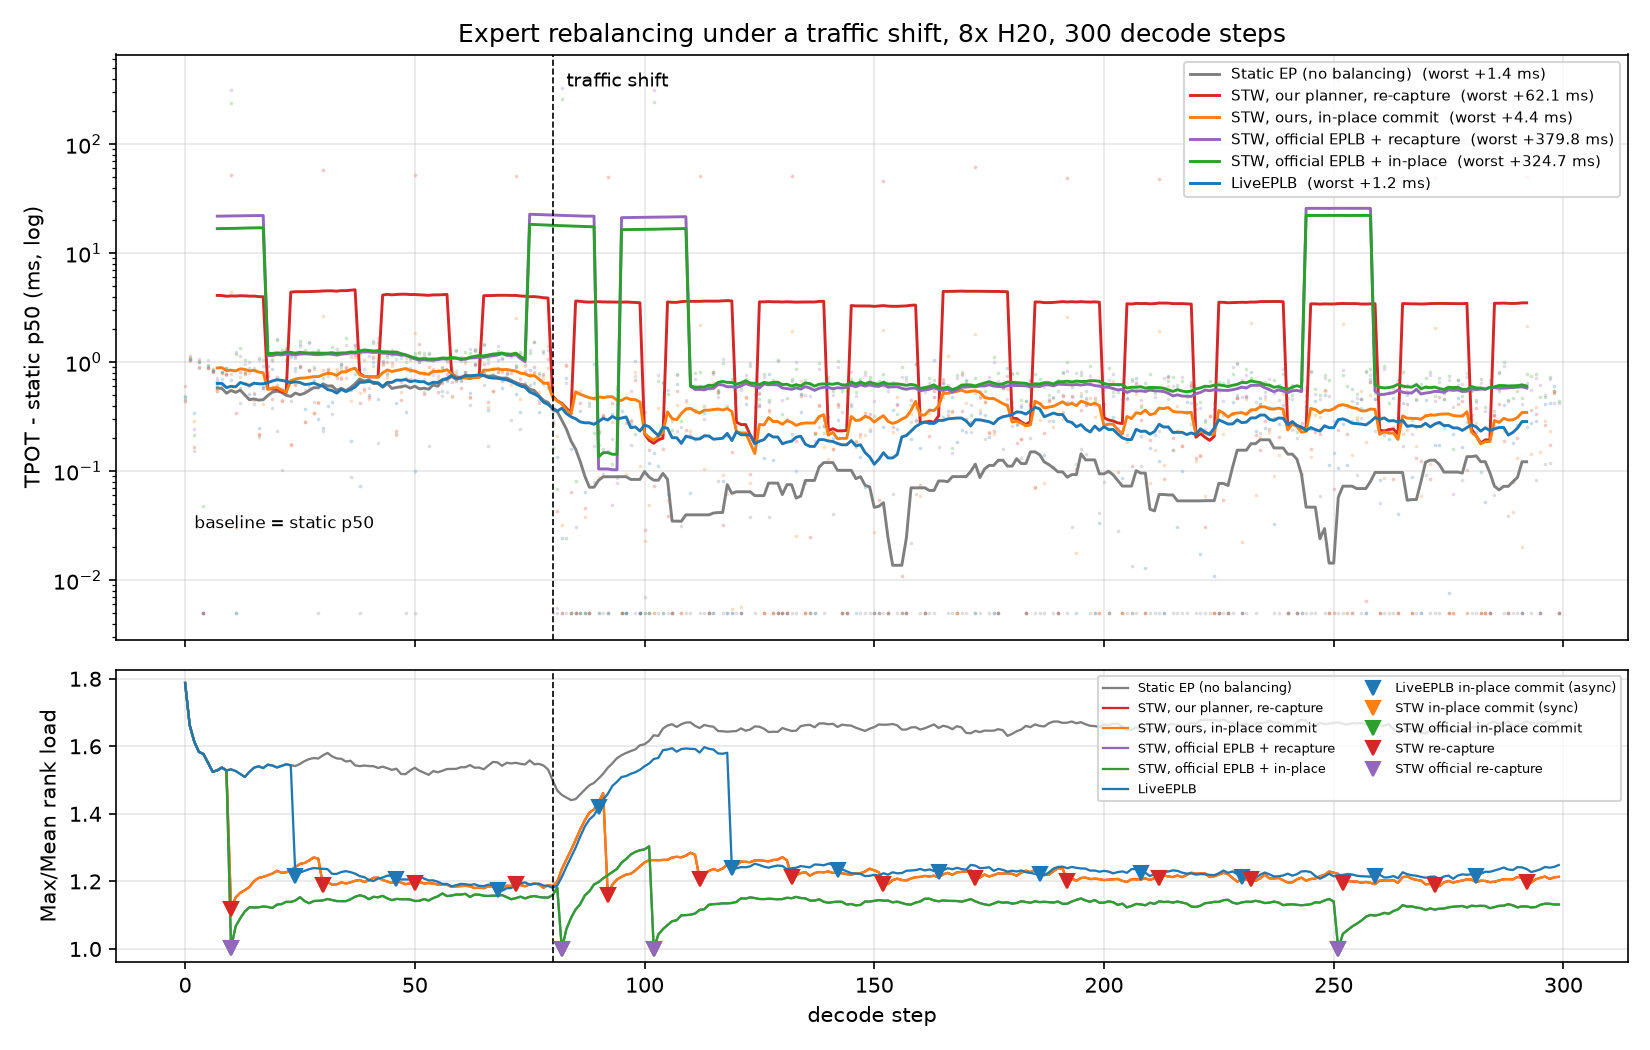
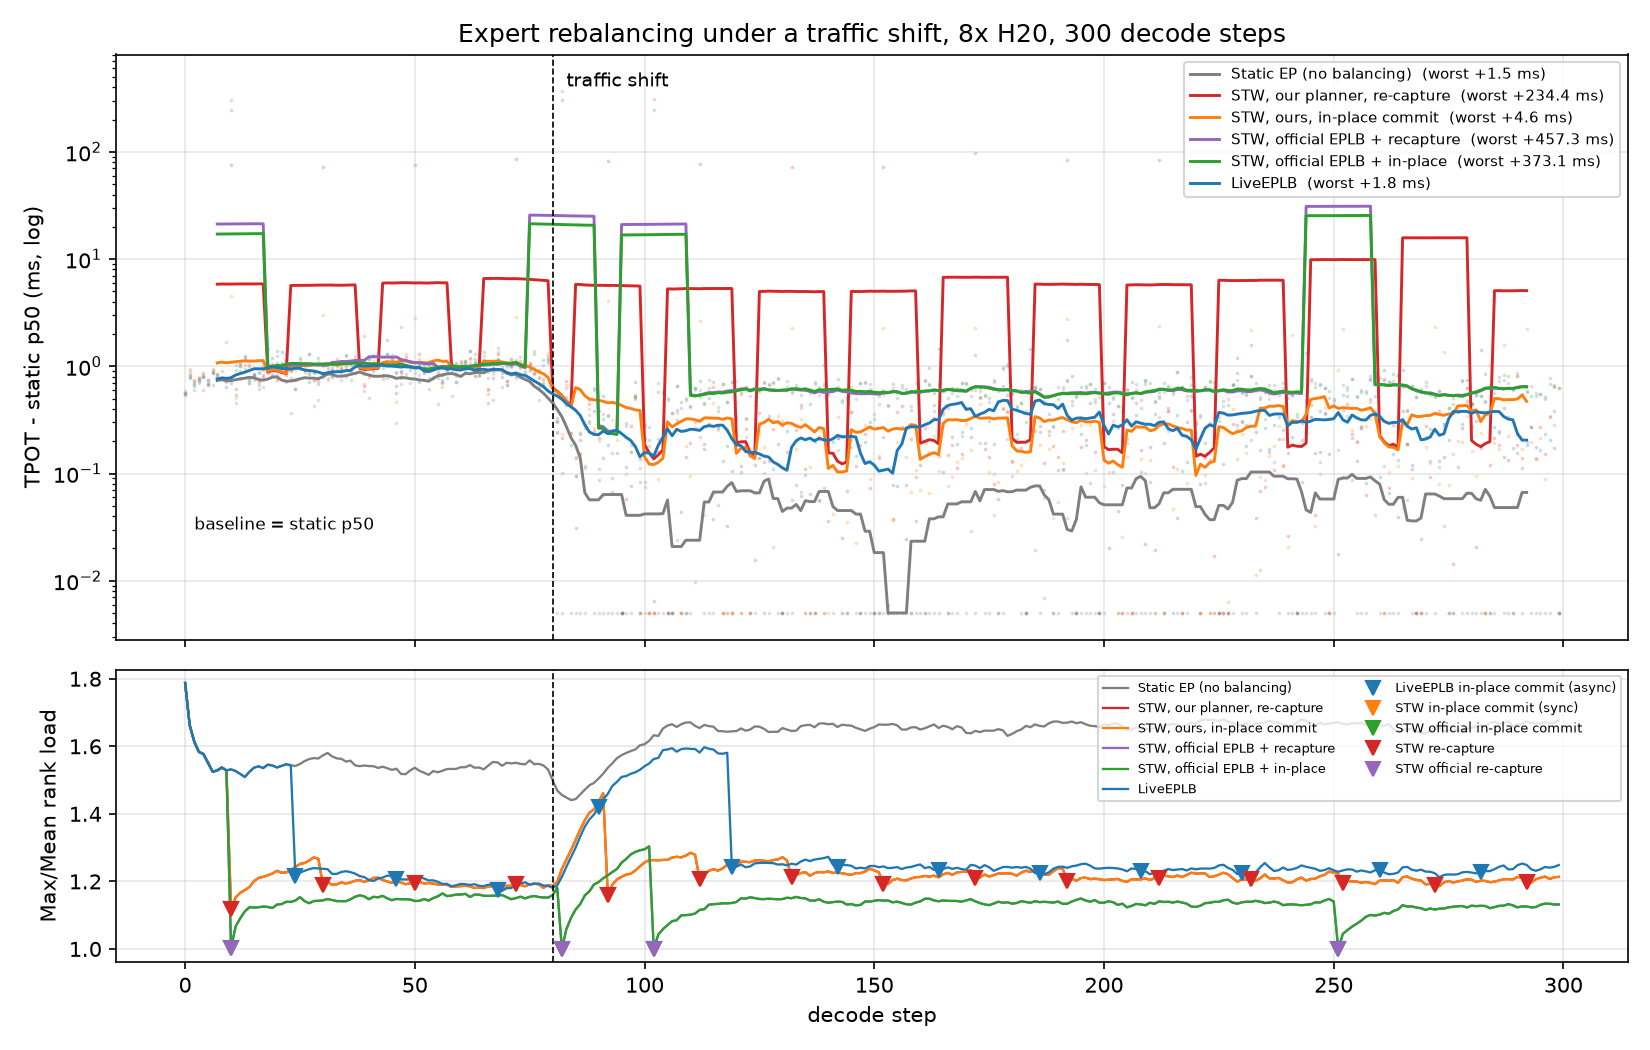
fix: make stats from rank 0 to the cluuster.

diff --git a/benchmarks/run_synthetic_8gpu.py b/benchmarks/run_synthetic_8gpu.py
@@ -205,6 +205,43 @@ def local_tokens(ids, logcnt, size):
     return out
 
 
+def cluster_reduce(tpot, ctrl_ms, imbalance, split, commits, plans, bad,
+                   steps, world, rank):
+    """Merge per-rank measurements into cluster-view ones, off the clock.
+    """
+    stream = torch.tensor([tpot, ctrl_ms, imbalance], dtype=torch.float64,
+                          device="cuda")
+    dist.all_reduce(stream, op=dist.ReduceOp.MAX)
+
+    ntasks = torch.zeros(steps, dtype=torch.int64, device="cuda")
+    times = torch.zeros(steps, 4, dtype=torch.float64, device="cuda")
+    for st, n, pl, dr, cp, rc in split:
+        ntasks[st] = n
+        times[st] = torch.tensor([pl, dr, cp, rc])
+    dist.all_reduce(ntasks, op=dist.ReduceOp.SUM)
+    dist.all_reduce(times, op=dist.ReduceOp.MAX)
+    merged = [(st, int(ntasks[st]), *times[st].tolist())
+              for st in ntasks.nonzero().flatten().tolist()]
+
+    counts = torch.tensor([commits, plans], dtype=torch.int64, device="cuda")
+    dist.all_reduce(counts, op=dist.ReduceOp.MAX)
+
+    width = torch.tensor([len(bad)], dtype=torch.int64, device="cuda")
+    dist.all_reduce(width, op=dist.ReduceOp.MAX)
+    bad_all = []
+    if width.item():
+        rows = torch.full((int(width.item()), 6), -1, dtype=torch.int64,
+                          device="cuda")
+        for i, (l, e, s, (tl, te)) in enumerate(bad):
+            rows[i] = torch.tensor([rank, l, e, s, tl, te])
+        gathered = [torch.empty_like(rows) for _ in range(world)]
+        dist.all_gather(gathered, rows)
+        bad_all = [tuple(r) for g in gathered for r in g.tolist() if r[1] >= 0]
+
+    return (stream[0].tolist(), stream[1].tolist(), stream[2].tolist(),
+            merged, int(counts[0]), int(counts[1]), bad_all)
+
+
 def run(policy, args, rank, world, stack, sw):
     """Drive `stack` for args.steps decode steps under `policy`.
 
@@ -412,10 +449,14 @@ def run(policy, args, rank, world, stack, sw):
         load = rank_load(layout, ema * world, RANKS)
         imbalance.append((load.max(-1).values / load.mean(-1).clamp(min=1e-9)).mean().item())
 
+    bad = verify_replicas(stack, L)
+    tpot, ctrl_ms, imbalance, split, commits, plans, bad = cluster_reduce(
+        tpot, ctrl_ms, imbalance, split,
+        ctrl.commits if ctrl else stw_commits,
+        0 if ctrl is None else ctrl.plans, bad, args.steps, world, rank)
     return dict(policy=policy, tpot=tpot, actions=actions, imbalance=imbalance,
-                ctrl_ms=ctrl_ms, commits=ctrl.commits if ctrl else stw_commits,
-                plans=0 if ctrl is None else ctrl.plans, split=split,
-                bad=verify_replicas(stack, L))
+                ctrl_ms=ctrl_ms, commits=commits, plans=plans, split=split,
+                bad=bad)
 
 
 def stats(v):
@@ -467,11 +508,15 @@ def main():
         torch.cuda.empty_cache()
         dist.barrier()
 
+    peak = torch.tensor([torch.cuda.max_memory_allocated()],
+                        dtype=torch.float64, device="cuda")
+    dist.all_reduce(peak, op=dist.ReduceOp.MAX)
+
     if rank == 0:
         print(f"{args.layers} layers, {args.tokens} tokens/step, {args.steps} steps, "
               f"shift at {args.shift_at}, Zipf(alpha={args.alpha}) rotating "
-              f"{args.drift} experts, peak "
-              f"{torch.cuda.max_memory_allocated() / 2**30:.1f} GiB\n")
+              f"{args.drift} experts, peak (max over ranks) "
+              f"{peak.item() / 2**30:.1f} GiB\n")
         hdr = (f"{'policy':<10}{'TPOT p50':>10}{'p99':>9}{'worst':>9}"
                f"{'Max/Mean last100':>18}{'commits':>9}")
         print(hdr)
@@ -487,14 +532,18 @@ def main():
 
         for p in policies:
             if out[p]["bad"]:
-                print(f"\n!! {p}: {len(out[p]['bad'])} replica slots hold the "
-                      f"wrong weights, first {out[p]['bad'][:3]}")
+                print(f"\n!! {p}: {len(out[p]['bad'])} replica slots across "
+                      f"all ranks hold the wrong weights "
+                      f"(rank, layer, expert, slot, got_l, got_e), first "
+                      f"{out[p]['bad'][:3]}")
             if out[p]["split"]:
                 base = torch.tensor(out["static"]["tpot"]).median().item() \
                     if "static" in out else 0.0
                 print(f"\n{p} stalls (ms). drain = waiting out the replay this "
                       f"step launched, which every step pays; plan runs on the "
-                      f"CPU beside it and is free whenever drain > 0.")
+                      f"CPU beside it and is free whenever drain > 0. slots "
+                      f"is the cluster-wide total, each time column is the "
+                      f"slowest rank's.")
                 print(f"  {'step':>5}{'slots':>7}{'plan':>8}{'drain':>8}"
                       f"{'copy':>8}{'recap':>8}{'TPOT':>8}{'vs p50':>8}")
                 for st, n, pl, dr, cp, rc in out[p]["split"]:

diff --git a/docs/stage5_experiments.md b/docs/stage5_experiments.md
@@ -30,11 +30,11 @@ phaseB_math_wiki:    608,408 次路由指派 / 1666 prompts，zero-count 专家 
 
 ## 真实路由长什么样
 
-| | Phase A (code) | Phase B (math) | 合成 Zipf(α=1.1) |
-|---|---|---|---|
-| 层平均 Max/Mean（静态布局） | **1.527** | **1.642** | 2.204 |
-| 单层最小 / 最大 | 1.085 / 2.211 | 1.217 / **2.632** | ≈ 每层相同 |
-| 两域 top-8 热点交集 | 每层平均 1.38 / 8 | 同上（交集本来就跨域） | 人为轮转 64 个专家 |
+|                             | Phase A (code)    | Phase B (math)          | 合成 Zipf(α=1.1)  |
+| --------------------------- | ----------------- | ----------------------- | ------------------ |
+| 层平均 Max/Mean（静态布局） | **1.527**   | **1.642**         | 2.204              |
+| 单层最小 / 最大             | 1.085 / 2.211     | 1.217 / **2.632** | ≈ 每层相同        |
+| 两域 top-8 热点交集         | 每层平均 1.38 / 8 | 同上（交集本来就跨域）  | 人为轮转 64 个专家 |
 
 1. **比合成温和**：层平均 1.5-1.6，不是 2.2。
 2. **逐层异质是真实的**：同一层在这两个域热度差异极大（交互项强），单看一个域也有
@@ -77,54 +77,59 @@ python benchmarks/plot_stage4.py 80 results/stage5_trace_timeline.json results/s
 
 ### 40 层
 
+（**2026-11-28 重跑，集群口径**——per-step 取 8 个 rank 的 MAX，此前为 rank0 口径，见
+`stage5_debug_notes` S5-9。停机类数字普遍上修，结论方向不变。）
+
 ```
 policy               TPOT p50      p99    worst  Max/Mean last100  commits
 ---------------------------------------------------------------------------------
-static                 66.290   67.576   67.744             1.663        0
-stw                    66.641  118.206  128.436             1.207       15
-stw_inplace            66.618   68.887   70.747             1.207       15
-stw_official           66.933  383.003  446.086             1.125        4
-stw_official_inplace   66.978  307.136  391.041             1.125        4
-live                   66.599   67.349   67.466             1.223       12
+static                 66.507   67.747   67.993             1.663        0
+stw                    66.780  159.196  300.953             1.207       15
+stw_inplace            66.748   69.396   71.069             1.207       15
+stw_official           67.144  372.582  523.793             1.125        4
+stw_official_inplace   67.146  312.213  439.620             1.125        4
+live                   66.800   67.974   68.272             1.234       13
 ```
-
-
 
 ### 1 层（对照，layer-0 切片）
 
 ```
 policy               TPOT p50      p99    worst  Max/Mean last100  commits
 ---------------------------------------------------------------------------------
-static                  1.665    1.759   1.761             2.218   0
-stw                     1.599   34.218  43.394             1.216   5
-stw_inplace             1.597    2.086   2.282             1.216   5
-stw_official            1.660    2.301  62.492             1.106   3
-stw_official_inplace    1.660    1.803  30.090             1.106   3
-live                    1.642    1.760   2.021             1.224   3
+static                  1.754    1.766   3.123             1.450   0
+stw                     1.755   84.639  132.559             1.286   7
+stw_inplace             1.756    2.416    2.676             1.286   7
+stw_official            1.755    2.386   78.205             1.133   2
+stw_official_inplace    1.756    1.879   37.030             1.133   2
+live                    1.762    2.390    2.602             1.321   7
 ```
+
+（旧表的 static last100 = 2.218 与正文"layer-0 是温和层（静态 1.450）"自相矛盾——
+那是 S5-2 `counts[:L]` 切片修复**之前**采的错乱数据，本次重跑后 1.450 与正文自洽。
+stw/commits 5→7、official 3→2 也随之修正。）
 
 ![real trace TPOT timeline](figures/trace_timeline_40layer.png)
 
 ### 和合成结果逐条对照
 
-| 结论 | 合成 Zipf | 真实轨迹（大样本） | 判定 |
-|---|---|---|---|
-| live 最差步 ≈ static | 65.995 vs 65.866（+0.13） | 67.466 vs 67.744（**−0.28**） | 抖动内，三轮符号都在 ±0.36 内 |
-| 停机 ≈ 重录 | recap 46-68，占 96.3% | recap 45-66，stw_official 也在 47-58 | 成立 |
-| 不 recapture 拿走大部分 | stw_inplace worst 69.03 | 70.75 | 成立 |
-| live 对 stw_inplace 余量 | 2.86 ms | **3.28 ms** | 成立，稳定在一个数量级 |
-| 官方停机 vs live | stw_official 434.4 / live 66.0 | **446.1 / 67.5** | 差速反而在真实流量下**更大**（6.6×），因为官方换手量不变而 step 更长 |
-| 官方提交次数 | 6 vs stw 15 / live 12 | **4 vs stw 15 / live 12** | 官方是全量重排，换掉整个池子后均衡保持更久；但为了少触发 2.5×，停机总时长反而 **官方 > stw** |
-| 均衡收益（last100） | 2.204 → 1.166（47%） | 1.663 → 1.22（**27%**） | 方向一致，量级随倾斜度 |
-| live 收敛慢于停机组 | 45 步，峰值差 0.81 | **～35 步，峰值差 0.31** | **劣势仍在，真实流量上小约一半** |
-| step 时长 | 64.6 ms | 66.3-66.6 ms | 静态布局在真实流量上略重 |
+| 结论                     | 合成 Zipf                      | 真实轨迹（大样本）                   | 判定                                                                                                |
+| ------------------------ | ------------------------------ | ------------------------------------ | --------------------------------------------------------------------------------------------------- |
+| live 最差步 ≈ static    | 65.995 vs 65.866（+0.13）      | 67.466 vs 67.744（**−0.28**） | 抖动内，三轮符号都在 ±0.36 内                                                                      |
+| 停机 ≈ 重录             | recap 46-68，占 96.3%          | recap 45-66，stw_official 也在 47-58 | 成立                                                                                                |
+| 不 recapture 拿走大部分  | stw_inplace worst 69.03        | 70.75                                | 成立                                                                                                |
+| live 对 stw_inplace 余量 | 2.86 ms                        | **3.28 ms**                    | 成立，稳定在一个数量级                                                                              |
+| 官方停机 vs live         | stw_official 434.4 / live 66.0 | **446.1 / 67.5**               | 差速反而在真实流量下**更大**（6.6×），因为官方换手量不变而 step 更长                         |
+| 官方提交次数             | 6 vs stw 15 / live 12          | **4 vs stw 15 / live 12**      | 官方是全量重排，换掉整个池子后均衡保持更久；但为了少触发 2.5×，停机总时长反而 **官方 > stw** |
+| 均衡收益（last100）      | 2.204 → 1.166（47%）          | 1.663 → 1.22（**27%**）       | 方向一致，量级随倾斜度                                                                              |
+| live 收敛慢于停机组      | 45 步，峰值差 0.81             | **～35 步，峰值差 0.31**       | **劣势仍在，真实流量上小约一半**                                                              |
+| step 时长                | 64.6 ms                        | 66.3-66.6 ms                         | 静态布局在真实流量上略重                                                                            |
 
 收敛过程（突变后 Max/Mean）：
 
-| step | 80 | 90 | 100 | 110 | 120 | 130 | 140 |
-|---|---|---|---|---|---|---|---|
+| step | 80    | 90    | 100   | 110             | 120   | 130   | 140   |
+| ---- | ----- | ----- | ----- | --------------- | ----- | ----- | ----- |
 | live | 1.181 | 1.420 | 1.541 | **1.592** | 1.239 | 1.246 | 1.253 |
-| stw | 1.186 | 1.435 | 1.256 | **1.285** | 1.247 | 1.272 | 1.229 |
+| stw  | 1.186 | 1.435 | 1.256 | **1.285** | 1.247 | 1.272 | 1.229 |
 
 live 的提交落在 step 90 和 119，~35 步内 Max/Mean 高出停机组约 0.31。**注意一个反直觉点**：
 小样本里这个窗口的峰值差只有 0.20——不是大样本暴露了更差的结果，而是**数学域最热的

diff --git a/docs/stage5_debug_notes.md b/docs/stage5_debug_notes.md
@@ -213,3 +213,48 @@ walk 慢一个量级。根因不是显存：
   它不是免费替代 staging。如果你的问题是显存而不是速度，它是正确选择；
   否则默认保持 staged。
 
+---
+
+## S5-9：报告的是 rank0 的测量，以为那就是集群的
+
+### 症状
+
+给 benchmark 加上跨 rank 聚合后重跑，"慢"的数字整组变大、"快"的几乎不动
+（40 层合成，聚合前 → 两次聚合后重跑）：stw_official worst 434 → **528 / 578**、
+stw worst → 186 / 266、stw p99 → 141 / 135（worst 属事件性指标，run 间 ±10% 正常）；
+stw 停机构成也大改（trace：recap 45-66 → 72-234 ms）。static / live 的 p50 与 worst
+基本原样。快数字不动不是没问题，是恰好没问题。
+是恰好没问题。
+
+### 根因
+
+`run()` 的全部汇总包在 `if rank == 0:` 里，tpot / ctrl_ms / split / bad / 峰值显存
+都是 rank0 一家之言，原有代码没有任何跨 rank 聚合。能瞒这么久的根因是这个测试床
+**对称性太好**：同 seed 采样让 8 个 rank 的流量逐元素一致、规划器确定、同步路径上
+有 barrier 对齐——于是 p50 层面 cluster 与 rank0 几乎一致，差异全藏在尾部，而
+EPLB 的卖点恰好就在尾部。三处真不一致：
+
+1. **live 的 staging 流量按 rank 分摊**（各 rank 只 pull 自己的任务、后台异步、
+   无 barrier），DMA 争用最重的 rank 才是集群瓶颈，rank0 分到轻活就系统性低估；
+2. **同机 8 进程抢 CPU**：planner 的 numpy/BLAS 被争抢最狠的那个 rank 决定 stw
+   关键路径上的真实停顿，rank0 的 `ctrl_ms` 不是这个数；
+3. **`bad` 只校验 rank0 自己的池**——别的 rank 搬坏权重，报告是假阴性。
+
+### 修复
+
+`cluster_reduce()`（`run_synthetic_8gpu.py`，计时循环**之后**调用，对测量路径
+零干扰）：tpot / ctrl_ms / imbalance per-step MAX；split 的槽数 SUM、时间列 MAX；
+commits / plans MAX；bad 定宽 pad 后 all_gather 并打上 rank 号；峰值显存 MAX。
+全部走 NCCL 原生支持的数值张量 collective，不碰 object collective；与 controller
+统计用的独立 gloo group 互不干扰（`controller.py:89` 本来就为躲 GPU 集合 kernel
+而选了 gloo）。
+
+### 教训
+
+- **分布式 benchmark 的默认口径是集群（最慢 rank），单 rank 视角要特别声明。**
+  集群吞吐由最慢分片决定，这点在 EP 上没有任何例外。
+- Stage 4/5 此前引用的合成数字全部是 rank0 口径；本次起文档统一为集群口径，
+  数值随之更新（以重跑为准）。
+
+---
+
